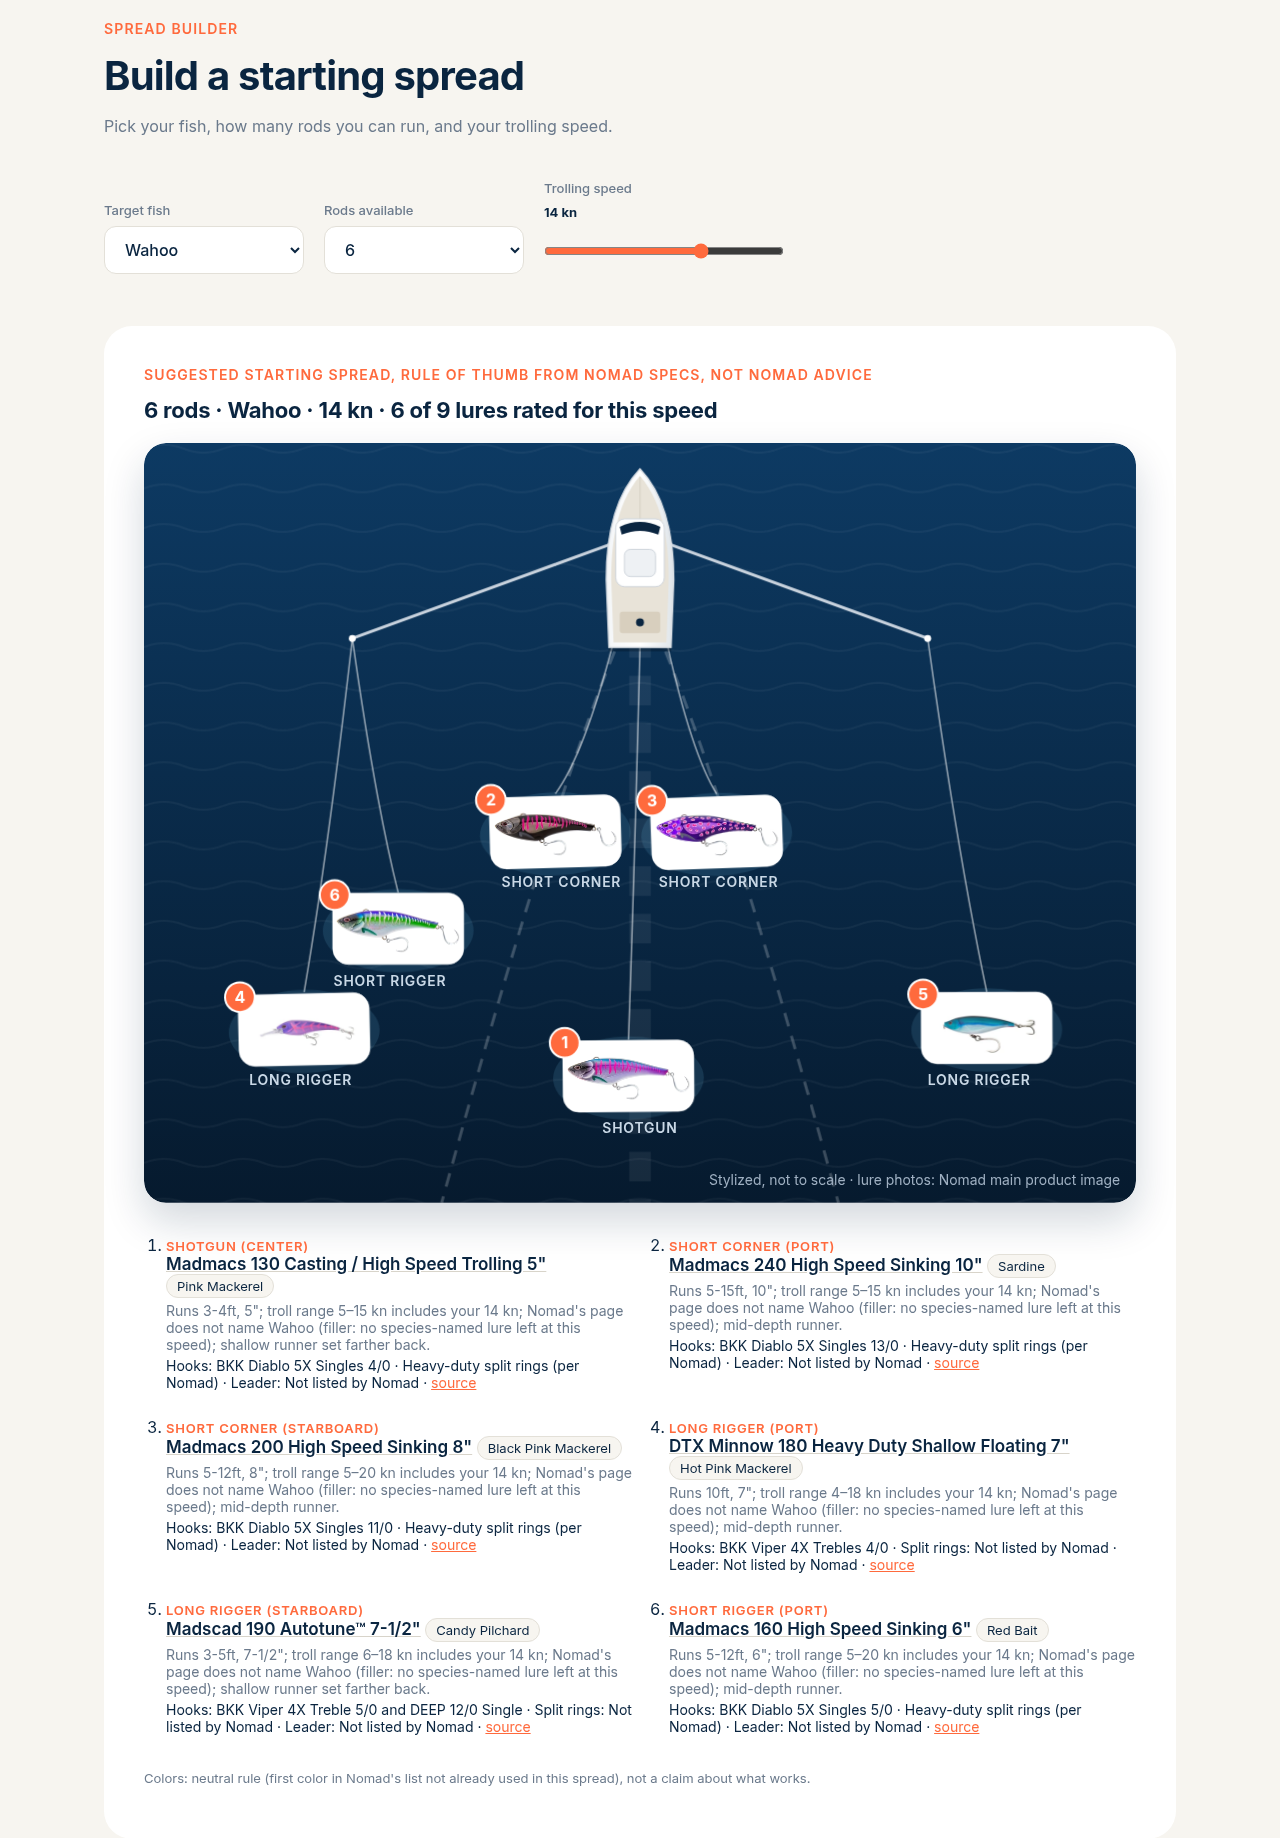
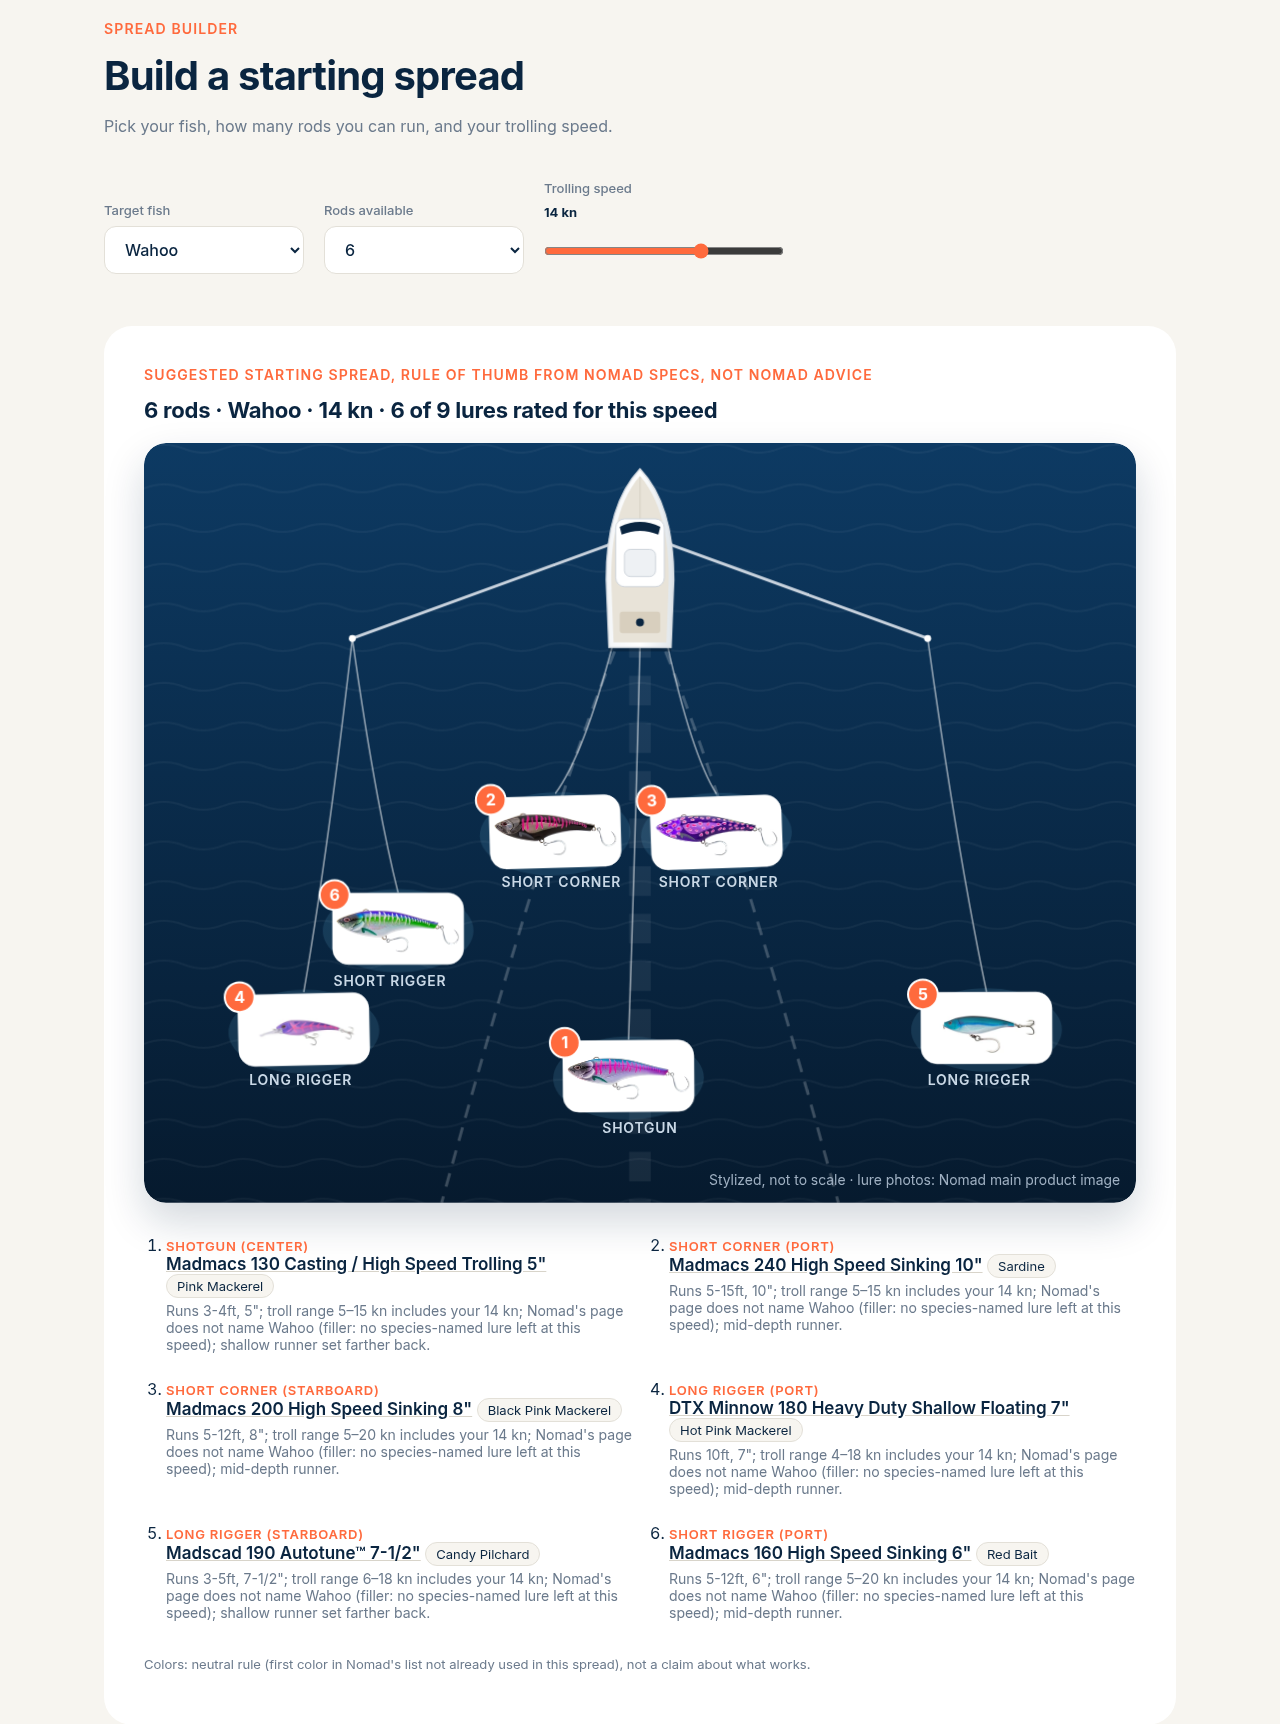
Remove rigging section and per-rod rigging lines (v7)

diff --git a/js/spread.js b/js/spread.js
@@ -1,4 +1,4 @@
-(function(){const D=window.LURE_DATA,L=D.lures,R=window.RIGGING||{},$=s=>document.querySelector(s);
+(function(){const D=window.LURE_DATA,L=D.lures,$=s=>document.querySelector(s);
 const esc=s=>String(s).replace(/[&<>"]/g,c=>({'&':'&amp;','<':'&lt;','>':'&gt;','"':'&quot;'}[c]));
 const FISH={'Bluefin tuna':'Tuna','Yellowfin tuna':'Tuna','Wahoo':'Wahoo'};
 // Spec parsing (only from data.js fields)
@@ -66,16 +66,13 @@ function boat(rods){const n=rods.length,W=1000,cx=W/2,top=26,B=boatSVG(n,cx,top)
 
 Object.keys(FISH).forEach(f=>$('#s-fish').insertAdjacentHTML('beforeend',`<option>${esc(f)}</option>`));
 for(let i=1;i<=8;i++)$('#s-rods').insertAdjacentHTML('beforeend',`<option${i==4?' selected':''}>${i}</option>`);
-const rigLine=l=>{const r=R[l.id]||{},bits=[`Hooks: ${l.hooks_rings||'Not listed by Nomad'}`];
- bits.push(r.split_rings?'Heavy-duty split rings (per Nomad)':'Split rings: Not listed by Nomad');bits.push('Leader: '+(r.leader?'see Nomad note':'Not listed by Nomad'));
- return esc(bits.join(' · '))+` · <a href="${esc(l.product_url)}" target="_blank" rel="noopener">source</a>`};
 function run(){const fish=$('#s-fish').value,n=+$('#s-rods').value,k=+$('#s-speed').value,o=build(fish,n,k);window.lastSpread=o;$('#s-speed-val').textContent=k+' kn';
  if(!o.rods.length){$('#spread-out').innerHTML=`<p class="eyebrow">Suggested starting spread, rule of thumb from Nomad specs, not Nomad advice</p><h3 class="sp-h">No Nomad lure in this demo is rated for ${k} kn</h3><p class="muted">Trolling ranges in this demo run from ${SMIN} to ${SMAX} kn. Try another speed.</p>`;return}
  $('#spread-out').innerHTML=`<p class="eyebrow">Suggested starting spread, rule of thumb from Nomad specs, not Nomad advice</p>
  <h3 class="sp-h">${n} rod${n>1?'s':''} · ${esc(fish)} · ${k} kn · ${o.count} of ${L.length} lures rated for this speed</h3>
  <div class="sp-grid">${boat(o.rods)}<ol class="rods">${o.rods.map(r=>`<li><div class="rod-pos">${esc(r.pos[0])}</div>
  <button class="rod-lure" data-id="${r.l.id}">${esc(r.l.model)}</button> <span class="chip">${esc(r.col)}</span>
- <p class="muted">${esc(r.why)}</p><p class="rig">${rigLine(r.l)}</p></li>`).join('')}</ol></div>
+ <p class="muted">${esc(r.why)}</p></li>`).join('')}</ol></div>
  <p class="muted small">Colors: neutral rule (first color in Nomad's list not already used in this spread), not a claim about what works.</p>`;
  document.querySelectorAll('.rod-lure').forEach(b=>b.onclick=()=>window.openLure(b.dataset.id));}
 $('#s-fish').onchange=$('#s-rods').onchange=run;$('#s-speed').oninput=run;window.buildSpread=build;run();})();

diff --git a/js/app.js b/js/app.js
@@ -6,8 +6,6 @@ const FISH={'Bluefin tuna':'Tuna','Yellowfin tuna':'Tuna','Wahoo':'Wahoo'};
 Object.keys(FISH).forEach(s=>$('#f-species').insertAdjacentHTML('beforeend',`<option>${esc(s)}</option>`));
 const speeds=[...new Set(L.map(l=>l.max_trolling_speed_kn).filter(x=>x!=null))].sort((a,b)=>a-b);
 speeds.forEach(s=>$('#f-speed').insertAdjacentHTML('beforeend',`<option value="${s}">${s} kn max or faster</option>`));
-const NL='<span class="null">Not listed by Nomad</span>',q=x=>x?esc(x):NL;
-const rig=l=>{const r=(window.RIGGING||{})[l.id]||{};return `<dl><dt>Hooks</dt><dd>${q(l.hooks_rings)}</dd><dt>Split rings</dt><dd>${q(r.split_rings)}</dd><dt>Tow point / eyelet</dt><dd>${q(r.tow_point)}</dd><dt>Leader</dt><dd>${q(r.leader)}</dd><dt>Swivels / snaps</dt><dd>${q(r.swivels_snaps)}</dd><dt>Hook swaps</dt><dd>${NL}</dd></dl>${r.notes&&r.notes.length?`<ul>${r.notes.map(n=>`<li>${esc(n)}</li>`).join('')}</ul>`:''}<p class="small"><a href="${esc(l.source_url)}" target="_blank" rel="noopener">Source: ${esc(l.source_url.replace('https://',''))}</a></p>`};
 const price=l=>l.price==null?null:`$${l.price.toFixed(2)} ${l.currency}`;
 function render(){const sp=$('#f-species').value,min=parseFloat($('#f-speed').value)||0;
  const r=L.filter(l=>(!sp||(l.target_species||[]).includes(FISH[sp]))&&(!min||(l.max_trolling_speed_kn||0)>=min));
@@ -23,7 +21,7 @@ function open(id){const l=L.find(x=>x.id===id);
  <dt>Action</dt><dd>${v(l.action)}</dd><dt>Trolling speed</dt><dd>${v(l.trolling_speed_text)}</dd><dt>Hooks</dt><dd>${v(l.hooks_rings)}</dd>
  <dt>Species named</dt><dd>${l.target_species?esc(l.target_species.join(', ')):v(null)}</dd></dl></div></div>
  <p class="eyebrow" style="margin-top:28px">${l.colors.length} colors offered</p><div class="colors">${l.colors.map(c=>`<span>${esc(c)}</span>`).join('')}</div>
- <div class="rigging"><p class="eyebrow">Rigging (from Nomad's product page)</p>${rig(l)}</div><a class="buy" href="${esc(l.product_url)}" target="_blank" rel="noopener">Buy from Nomad →</a>`;
+ <a class="buy" href="${esc(l.product_url)}" target="_blank" rel="noopener">Buy from Nomad →</a>`;
  $('#detail').hidden=false;document.body.style.overflow='hidden';}
 function close(){$('#detail').hidden=true;document.body.style.overflow='';}
 $('.close').onclick=close;$('#detail').onclick=e=>{if(e.target.id==='detail')close()};document.onkeydown=e=>{if(e.key==='Escape')close()};

diff --git a/index.html b/index.html
@@ -1,5 +1,5 @@
 <!doctype html><html lang="en"><head><meta charset="utf-8"><meta name="viewport" content="width=device-width,initial-scale=1">
-<title>Tackle Box — Nomad offshore trolling lures</title><link rel="icon" href="data:,"><link rel="stylesheet" href="css/style.css?v=6"></head><body>
+<title>Tackle Box — Nomad offshore trolling lures</title><link rel="icon" href="data:,"><link rel="stylesheet" href="css/style.css?v=7"></head><body>
 <header class="hero"><div class="wrap"><p class="eyebrow">Tackle Box</p><h1>Offshore trolling,<br>at a glance.</h1>
 <p class="lede">Nine Nomad Design offshore trolling lures from nomadtackle.com — specs, colors and speeds in one place.</p></div></header>
 <main class="wrap">
@@ -18,4 +18,4 @@
 </main>
 <div id="detail" class="detail" hidden><div class="sheet" role="dialog" aria-modal="true"><button class="close" aria-label="Close">×</button><div id="detail-body"></div></div></div>
 <footer><div class="wrap">Unofficial demo. Product data from nomadtackle.com, <span id="fdate"></span>. Not affiliated with Nomad Design.</div></footer>
-<script src="js/data.js?v=6"></script><script src="js/rigging.js?v=6"></script><script src="js/app.js?v=6"></script><script src="js/spread.js?v=6"></script></body></html>
+<script src="js/data.js?v=7"></script><script src="js/app.js?v=7"></script><script src="js/spread.js?v=7"></script></body></html>

diff --git a/css/style.css b/css/style.css
@@ -36,8 +36,7 @@ footer{background:var(--deep);color:rgba(247,245,240,.7);padding:40px 0;font-siz
 .sp-grid{display:grid;grid-template-columns:1fr 1.2fr;gap:32px;margin-top:20px;align-items:start}.boatsvg{width:100%;background:var(--off);border-radius:20px}
 .rods{margin:0;padding-left:22px}.rods li{margin-bottom:18px}.rods p{margin:4px 0;font-size:14px}.rod-pos{font-size:13px;color:var(--accent);font-weight:600;text-transform:uppercase;letter-spacing:.06em}
 .rod-lure{border:0;background:none;padding:0;font:inherit;font-weight:600;font-size:17px;color:var(--ocean);cursor:pointer;text-decoration:underline;text-decoration-color:#d8d4ca}
-.chip{background:var(--off);border:1px solid #e3e0d8;border-radius:99px;padding:3px 10px;font-size:13px}.rig{color:var(--ocean)}.rig a{color:var(--accent)}
-.rigging{margin:0 0 28px}.rigging dl{margin:12px 0}.rigging ul{margin:6px 0 0;padding-left:18px;font-size:14px}
+.chip{background:var(--off);border:1px solid #e3e0d8;border-radius:99px;padding:3px 10px;font-size:13px}
 @media(max-width:700px){.sp-grid{grid-template-columns:1fr}.spread-out{padding:24px 18px}}
 .rg{outline:none}.rg:focus-visible rect{stroke:var(--ocean)}
 .sp-grid{grid-template-columns:1.25fr 1fr}.boatsvg{background:none;border-radius:22px;box-shadow:0 18px 40px rgba(10,37,64,.18)}
